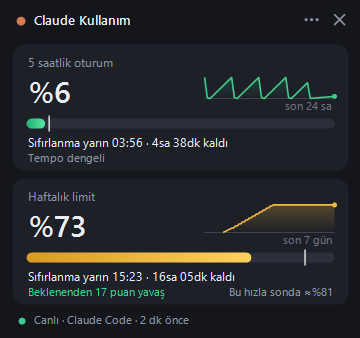
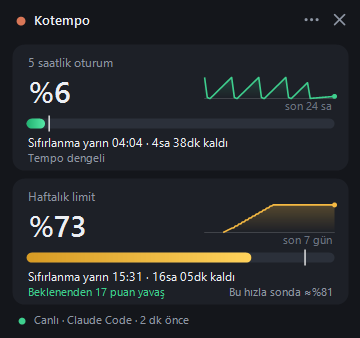
Rename project to Kotempo

Changed region(s): [[0.0917, 0.0296, 0.3667, 0.0888], [0.3361, 0.3846, 0.3972, 0.4438], [0.3667, 0.7988, 0.3972, 0.8284]]

diff --git a/src/Panel.cs b/src/Panel.cs
@@ -1,6 +1,6 @@
-// ClaudeUsagePanel.exe - Claude kullanim limitlerini gosteren, hafif, her zaman ustte duran panel.
+// Kotempo.exe - Claude kullanim limitlerini gosteren, hafif, her zaman ustte duran panel.
 // Ag erisimi YOK. Sadece yerel dosyalari okur:
-//   1) %LOCALAPPDATA%\ClaudeUsagePanel\limits.txt   (usage-feed.exe yazar, Claude Code statusLine'dan)
+//   1) %LOCALAPPDATA%\Kotempo\limits.txt   (kotempo-feed.exe yazar, Claude Code statusLine'dan)
 //   2) Claude Desktop'un plan-usage-history.json gunlugu (yedek kaynak, sifirlanma saati icermez)
 using System;
 using System.Collections.Generic;
@@ -15,7 +15,7 @@ using System.Threading;
 using System.Windows.Forms;
 using Microsoft.Win32;
 
-namespace ClaudeUsagePanel
+namespace Kotempo
 {
     static class Native
     {
@@ -164,7 +164,7 @@ namespace ClaudeUsagePanel
         public PanelForm(Cfg c, bool demoMode)
         {
             cfg = c; demo = demoMode;
-            wmShow = Native.RegisterWindowMessage("ClaudeUsagePanel.Show.v1");
+            wmShow = Native.RegisterWindowMessage("Kotempo.Show.v1");
 
             SetStyle(ControlStyles.AllPaintingInWmPaint | ControlStyles.UserPaint |
                      ControlStyles.OptimizedDoubleBuffer | ControlStyles.ResizeRedraw, true);
@@ -173,7 +173,7 @@ namespace ClaudeUsagePanel
             StartPosition = FormStartPosition.Manual;
             AutoScaleMode = AutoScaleMode.None;
             BackColor = CBg;
-            Text = "Claude Kullanım";
+            Text = "Kotempo";
             TopMost = cfg.Top;
             Opacity = cfg.Opacity / 100.0;
 
@@ -190,7 +190,7 @@ namespace ClaudeUsagePanel
 
             BuildMenu();
             tray.ContextMenuStrip = menu;
-            tray.Text = "Claude Kullanım";
+            tray.Text = "Kotempo";
             tray.MouseClick += delegate(object s, MouseEventArgs e) { if (e.Button == MouseButtons.Left) ToggleVisible(); };
             tray.Visible = !demo;
 
@@ -549,7 +549,7 @@ namespace ClaudeUsagePanel
             string key = txt + "|" + c.ToArgb();
             string tip = rows[0].Has
                 ? "5 saat %" + Math.Round(rows[0].Pct) + " · Hafta %" + Math.Round(rows[1].Pct)
-                : "Claude Kullanım: veri yok";
+                : "Kotempo: veri yok";
             tray.Text = tip.Length > 120 ? tip.Substring(0, 120) : tip;
             if (key == trayKey) return;
             trayKey = key;
@@ -643,7 +643,7 @@ namespace ClaudeUsagePanel
         const string RunKey = @"Software\Microsoft\Windows\CurrentVersion\Run";
         static bool AutostartOn()
         {
-            try { using (var k = Registry.CurrentUser.OpenSubKey(RunKey)) return k != null && k.GetValue("ClaudeUsagePanel") != null; }
+            try { using (var k = Registry.CurrentUser.OpenSubKey(RunKey)) return k != null && k.GetValue("Kotempo") != null; }
             catch (Exception) { return false; }
         }
         static void SetAutostart(bool on)
@@ -653,8 +653,8 @@ namespace ClaudeUsagePanel
                 using (var k = Registry.CurrentUser.OpenSubKey(RunKey, true))
                 {
                     if (k == null) return;
-                    if (on) k.SetValue("ClaudeUsagePanel", "\"" + Application.ExecutablePath + "\"");
-                    else k.DeleteValue("ClaudeUsagePanel", false);
+                    if (on) k.SetValue("Kotempo", "\"" + Application.ExecutablePath + "\"");
+                    else k.DeleteValue("Kotempo", false);
                 }
             }
             catch (Exception) { }
@@ -664,7 +664,7 @@ namespace ClaudeUsagePanel
         {
             string settings = System.IO.Path.Combine(Environment.GetFolderPath(Environment.SpecialFolder.UserProfile), ".claude", "settings.json");
             bool wired = false;
-            try { wired = File.Exists(settings) && File.ReadAllText(settings).Contains("usage-feed"); } catch (IOException) { }
+            try { wired = File.Exists(settings) && File.ReadAllText(settings).Contains("kotempo-feed"); } catch (IOException) { }
             string msg =
                 "Claude Code bağlantısı (statusLine): " + (wired ? "kurulu" : "KURULU DEĞİL — connect-claude.ps1 çalıştırılmalı") + "\n" +
                 "Son besleme: " + (cur != null && cur.Source == "Claude Code" ? Ago(Store.Now() - cur.Updated) : (File.Exists(Store.LimitsPath) ? Ago(Store.Now() - Store.ReadLimits().Updated) : "hiç gelmedi")) + "\n" +
@@ -673,7 +673,7 @@ namespace ClaudeUsagePanel
                 "Veri klasörü: " + Store.Dir + "\n\n" +
                 "Bu program ağa hiç bağlanmaz; yalnızca yerel dosyaları okur.\n" +
                 "Not: Claude Code limitleri her yanıtta günceller; Claude Code kullanılmıyorsa değer eski kalabilir.";
-            MessageBox.Show(msg, "Claude Kullanım · Bağlantı durumu", MessageBoxButtons.OK, MessageBoxIcon.Information);
+            MessageBox.Show(msg, "Kotempo · Bağlantı durumu", MessageBoxButtons.OK, MessageBoxIcon.Information);
         }
 
         // =============================================================== fare
@@ -756,7 +756,7 @@ namespace ClaudeUsagePanel
         void DrawHeader(Graphics g)
         {
             using (var b = new SolidBrush(CAccent)) g.FillEllipse(b, 16, 16, 9, 9);
-            Str(g, "Claude Kullanım", fTitle, CText, new RectangleF(32, 11, 200, 20), sfL);
+            Str(g, "Kotempo", fTitle, CText, new RectangleF(32, 11, 200, 20), sfL);
 
             RectangleF m = BtnMenu, x = BtnClose;
             using (var b = new SolidBrush(CMuted))
@@ -876,11 +876,11 @@ namespace ClaudeUsagePanel
             if (!demo && snap == null)
             {
                 bool created;
-                mtx = new Mutex(true, "Local\\ClaudeUsagePanel.v1", out created);
+                mtx = new Mutex(true, "Local\\Kotempo.v1", out created);
                 if (!created)
                 {
                     // Zaten calisiyor: mevcut pencereyi one getir.
-                    Native.PostMessage(Native.HWND_BROADCAST, Native.RegisterWindowMessage("ClaudeUsagePanel.Show.v1"), IntPtr.Zero, IntPtr.Zero);
+                    Native.PostMessage(Native.HWND_BROADCAST, Native.RegisterWindowMessage("Kotempo.Show.v1"), IntPtr.Zero, IntPtr.Zero);
                     return 0;
                 }
             }

diff --git a/src/Shared.cs b/src/Shared.cs
@@ -1,12 +1,12 @@
-// Ortak veri katmani: besleyici (usage-feed.exe) yazar, panel (ClaudeUsagePanel.exe) okur.
-// Hicbir ag erisimi yok. Sadece %LOCALAPPDATA%\ClaudeUsagePanel altindaki iki kucuk dosya.
+// Ortak veri katmani: besleyici (kotempo-feed.exe) yazar, panel (Kotempo.exe) okur.
+// Hicbir ag erisimi yok. Sadece %LOCALAPPDATA%\Kotempo altindaki iki kucuk dosya.
 using System;
 using System.Collections.Generic;
 using System.Globalization;
 using System.IO;
 using System.Text;
 
-namespace ClaudeUsagePanel
+namespace Kotempo
 {
     public class Snapshot
     {
@@ -29,8 +29,8 @@ namespace ClaudeUsagePanel
     {
         static readonly DateTime Epoch = new DateTime(1970, 1, 1, 0, 0, 0, DateTimeKind.Utc);
 
-        public static readonly string Dir = Environment.GetEnvironmentVariable("CLAUDE_USAGE_PANEL_DIR")
-            ?? Path.Combine(Environment.GetFolderPath(Environment.SpecialFolder.LocalApplicationData), "ClaudeUsagePanel");
+        public static readonly string Dir = Environment.GetEnvironmentVariable("KOTEMPO_DIR")
+            ?? Path.Combine(Environment.GetFolderPath(Environment.SpecialFolder.LocalApplicationData), "Kotempo");
         public static string LimitsPath { get { return Path.Combine(Dir, "limits.txt"); } }
         public static string HistoryPath { get { return Path.Combine(Dir, "history.csv"); } }
 

diff --git a/src/Feed.cs b/src/Feed.cs
@@ -1,4 +1,4 @@
-// usage-feed.exe: Claude Code'un "statusLine" komutu olarak calisir.
+// kotempo-feed.exe: Claude Code'un "statusLine" komutu olarak calisir.
 // Claude Code, stdin'den oturum JSON'unu verir; icindeki rate_limits (5 saatlik + haftalik
 // yuzde ve sifirlanma zamani) alinip yerel dosyaya yazilir. Ag yok, token yok, baska hicbir alan saklanmaz.
 // stdout'a kisa bir ozet basar (Claude Code terminalinde durum cubugunda gorunur).
@@ -8,7 +8,7 @@ using System.IO;
 using System.Text;
 using System.Web.Script.Serialization;
 
-namespace ClaudeUsagePanel
+namespace Kotempo
 {
     static class Feed
     {
@@ -84,7 +84,7 @@ namespace ClaudeUsagePanel
             catch (Exception ex)
             {
                 // Besleyici Claude Code'u asla bozmamali: sessizce cik (hata ayiklama icin env ile goster).
-                if (Environment.GetEnvironmentVariable("CLAUDE_USAGE_PANEL_DEBUG") == "1") Console.Error.WriteLine(ex.ToString());
+                if (Environment.GetEnvironmentVariable("KOTEMPO_DEBUG") == "1") Console.Error.WriteLine(ex.ToString());
             }
             return 0;
         }

diff --git a/README.md b/README.md
@@ -1,6 +1,6 @@
-# Claude Usage Panel
+# Kotempo
 
-A tiny always-on-top Windows panel that shows your Claude subscription limits live: the **5-hour session** and the **weekly limit**, with exact reset times, a pace indicator and a short history graph.
+*Kotempo = quota + tempo.* A tiny always-on-top Windows panel that shows your Claude subscription limits live: the **5-hour session** and the **weekly limit**, with exact reset times, a pace indicator and a short history graph.
 
 **No sign-in. No account linking. No network access.** About 22 MB of RAM and ~0 % CPU when idle (a 40 KB executable).
 
@@ -13,8 +13,8 @@ A tiny always-on-top Windows panel that shows your Claude subscription limits li
 
 Claude Code passes a JSON document to its configurable `statusLine` command after every response. For subscribers it contains an official `rate_limits` field (usage percentage and reset time for the 5-hour and 7-day windows).
 
-1. `usage-feed.exe` is registered as the `statusLine` command. It reads that JSON from stdin and writes **only** the limits to `%LOCALAPPDATA%\ClaudeUsagePanel\` (`limits.txt`, `history.csv`). Project paths, conversation content and tokens are never stored.
-2. `ClaudeUsagePanel.exe` reads those files and draws the panel. As a fallback it reads Claude Desktop's own `plan-usage-history.json` log (percentages only, no reset time).
+1. `kotempo-feed.exe` is registered as the `statusLine` command. It reads that JSON from stdin and writes **only** the limits to `%LOCALAPPDATA%\Kotempo\` (`limits.txt`, `history.csv`). Project paths, conversation content and tokens are never stored.
+2. `Kotempo.exe` reads those files and draws the panel. As a fallback it reads Claude Desktop's own `plan-usage-history.json` log (percentages only, no reset time).
 
 Nothing is ever sent over the network, and no credentials are read or stored.
 
@@ -26,7 +26,7 @@ Windows 10/11. Building uses the C# compiler that ships with Windows (.NET Frame
 
 ```powershell
 .\build.ps1            # compile to .\bin
-.\install.ps1          # copy to %LOCALAPPDATA%\ClaudeUsagePanel\bin + Start Menu shortcut
+.\install.ps1          # copy to %LOCALAPPDATA%\Kotempo\bin + Start Menu shortcut
 .\connect-claude.ps1   # add the statusLine entry to ~/.claude/settings.json (makes a backup first)
 ```
 
@@ -36,7 +36,7 @@ Windows 10/11. Building uses the C# compiler that ships with Windows (.NET Frame
 
 Drag to move · double-click the header for compact mode · right-click or the ⋯ button for the menu · × hides to the tray · the tray icon shows the 5-hour percentage. The white tick on a bar marks where you would be if you used the limit evenly across the window. A notification is shown above 90 %.
 
-Try it without any data: `ClaudeUsagePanel.exe --demo`.
+Try it without any data: `Kotempo.exe --demo`.
 
 ## Limitations
 
@@ -50,16 +50,16 @@ MIT
 
 ---
 
-# Claude Kullanım Paneli (Türkçe)
+# Kotempo (Türkçe)
 
-Claude abonelik limitlerini (5 saatlik oturum ve haftalık limit) kesin sıfırlanma zamanı, tempo göstergesi ve kısa geçmiş grafiğiyle canlı gösteren, her zaman üstte duran küçük Windows paneli.
+*Kotempo = kota + tempo.* Claude abonelik limitlerini (5 saatlik oturum ve haftalık limit) kesin sıfırlanma zamanı, tempo göstergesi ve kısa geçmiş grafiğiyle canlı gösteren, her zaman üstte duran küçük Windows paneli.
 
 **Giriş yok, hesap bağlama yok, ağ bağlantısı yok.** Boşta yaklaşık 22 MB bellek ve ~%0 CPU.
 
 > Resmî olmayan topluluk projesidir; Anthropic ile bağlantılı değildir.
 
 ## Nasıl çalışır
-Claude Code, her yanıttan sonra `statusLine` komutuna resmî `rate_limits` alanını (yüzde + sıfırlanma zamanı) içeren JSON verir. `usage-feed.exe` bunu alıp yalnızca limitleri `%LOCALAPPDATA%\ClaudeUsagePanel\` altına yazar; `ClaudeUsagePanel.exe` o dosyaları okuyup paneli çizer. Proje yolu, sohbet içeriği ve token saklanmaz.
+Claude Code, her yanıttan sonra `statusLine` komutuna resmî `rate_limits` alanını (yüzde + sıfırlanma zamanı) içeren JSON verir. `kotempo-feed.exe` bunu alıp yalnızca limitleri `%LOCALAPPDATA%\Kotempo\` altına yazar; `Kotempo.exe` o dosyaları okuyup paneli çizer. Proje yolu, sohbet içeriği ve token saklanmaz.
 
 ## Kurulum
 ```powershell
